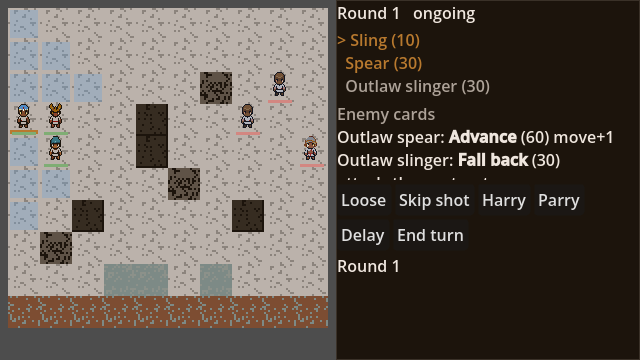
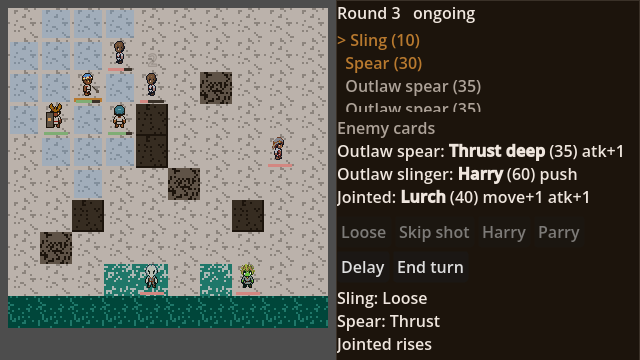
feat(presentation): class weapon overlays, hit trace and the auto-fight recording

diff --git a/scripts/art/make-overlays.py b/scripts/art/make-overlays.py
@@ -1,0 +1,35 @@
+#!/usr/bin/env python3
+"""Class weapon overlays, drawn by rule on a 32x32 canvas per facing, from theme ramps.
+Output: art/overlays/<class>-<facing>.png  (facings: down, left, right, up)"""
+import json, subprocess
+from pathlib import Path
+b = json.load(open("art/palettes/bronze.ramps.json"))
+metal, leather, outline, wood = b["metal"], b["leather"], b["outline"], b["leather"]
+out = Path("art/overlays"); out.mkdir(exist_ok=True)
+
+def draw(name, cmds):
+	subprocess.run(["magick", "-size", "32x32", "xc:none"] + cmds + [str(out / f"{name}.png")], check=True)
+
+def line(x1, y1, x2, y2, colour): return ["-fill", colour, "-stroke", colour, "-draw", f"line {x1},{y1} {x2},{y2}"]
+def rect(x1, y1, x2, y2, colour): return ["-fill", colour, "-stroke", "none", "-draw", f"rectangle {x1},{y1} {x2},{y2}"]
+def px(x, y, colour): return ["-fill", colour, "-stroke", "none", "-draw", f"point {x},{y}"]
+
+# Spear: a long shaft with a bronze head. Held upright to the side; on side facings it points forward.
+draw("spear-down",  line(21, 6, 21, 27, wood[1]) + rect(20, 3, 22, 6, metal[2]) + px(21, 2, metal[2]))
+draw("spear-up",    line(10, 6, 10, 27, wood[1]) + rect(9, 3, 11, 6, metal[2]) + px(10, 2, metal[2]))
+draw("spear-right", line(14, 17, 29, 17, wood[1]) + rect(29, 16, 31, 18, metal[2]) + px(31, 17, metal[2]))
+draw("spear-left",  line(2, 17, 17, 17, wood[1]) + rect(0, 16, 2, 18, metal[2]) + px(0, 17, metal[2]))
+# Sling: a short cord with a pouch at the hip.
+draw("sling-down",  line(22, 18, 25, 24, leather[0]) + rect(24, 24, 26, 26, leather[1]))
+draw("sling-up",    line(9, 18, 6, 24, leather[0]) + rect(5, 24, 7, 26, leather[1]))
+draw("sling-right", line(20, 18, 24, 22, leather[0]) + rect(24, 22, 26, 24, leather[1]))
+draw("sling-left",  line(11, 18, 7, 22, leather[0]) + rect(5, 22, 7, 24, leather[1]))
+# Shield: a tall hide rectangle with a bronze boss and dark rim.
+def shield(x1, y1, x2, y2):
+	cx, cy = (x1 + x2) // 2, (y1 + y2) // 2
+	return rect(x1, y1, x2, y2, outline) + rect(x1 + 1, y1 + 1, x2 - 1, y2 - 1, leather[1]) + rect(cx - 1, cy - 1, cx + 1, cy + 1, metal[2])
+draw("shield-down",  shield(6, 12, 13, 27))
+draw("shield-up",    shield(18, 12, 25, 27))
+draw("shield-right", shield(20, 11, 25, 27))
+draw("shield-left",  shield(6, 11, 11, 27))
+print("overlays:", sorted(p.name for p in out.glob("*.png")))

diff --git a/docs/phase1-checklist.md b/docs/phase1-checklist.md
@@ -20,14 +20,14 @@
 
 ## Presentation
 
-- [ ] 11. Battle scene: tiles, unit sprites from mapped sheets, camera, deployment zone
-- [ ] 12. Input: select, move preview, ability targeting, confirm, delay, end turn
-- [ ] 13. Initiative queue and enemy card panel (revealed at round start)
-- [ ] 14. The hit: hit-stop, shake, flash, knockback tween, particles, sound
-- [ ] 15. Result screen with the downing draws and deeds
+- [x] 11. Battle scene: tiles, unit sprites from mapped sheets, camera, deployment zone
+- [x] 12. Input: select, move preview, ability targeting, confirm, delay, end turn
+- [x] 13. Initiative queue and enemy card panel (revealed at round start)
+- [x] 14. The hit: hit-stop, shake, flash, knockback tween, particles, sound
+- [x] 15. Result screen with the downing draws and deeds
 
 ## Art
 
-- [ ] 16. Weapon and shield overlays per class and facing; Jointed second elbow
-- [ ] 17. Tile set: floor, wall, water, tide, rubble in bronze and tide palettes
+- [x] 16. Weapon and shield overlays per class and facing (drawn by rule); Jointed second elbow still to do
+- [x] 17. Tile set: placeholder floor, wall, water, tide, rubble from theme ramps (generated art later)
 - [ ] 18. Index-based colour map in the Aseprite step
